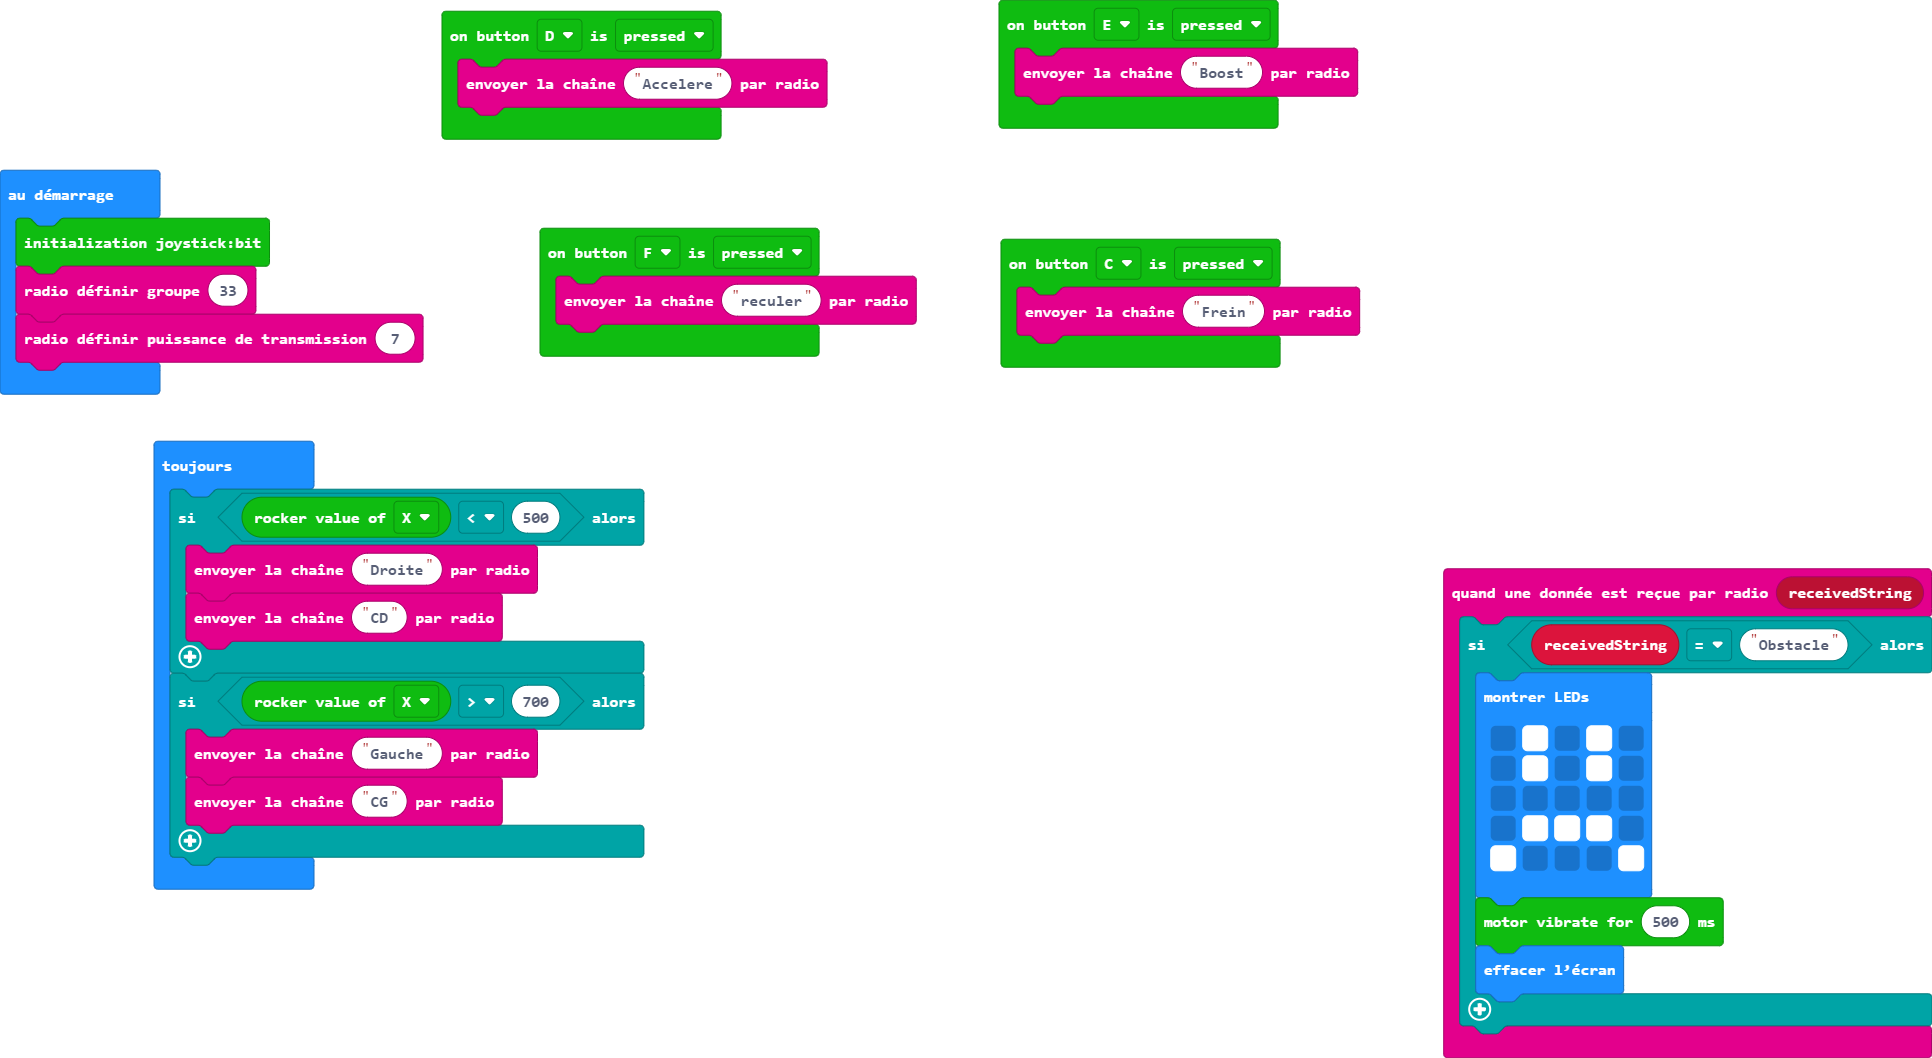
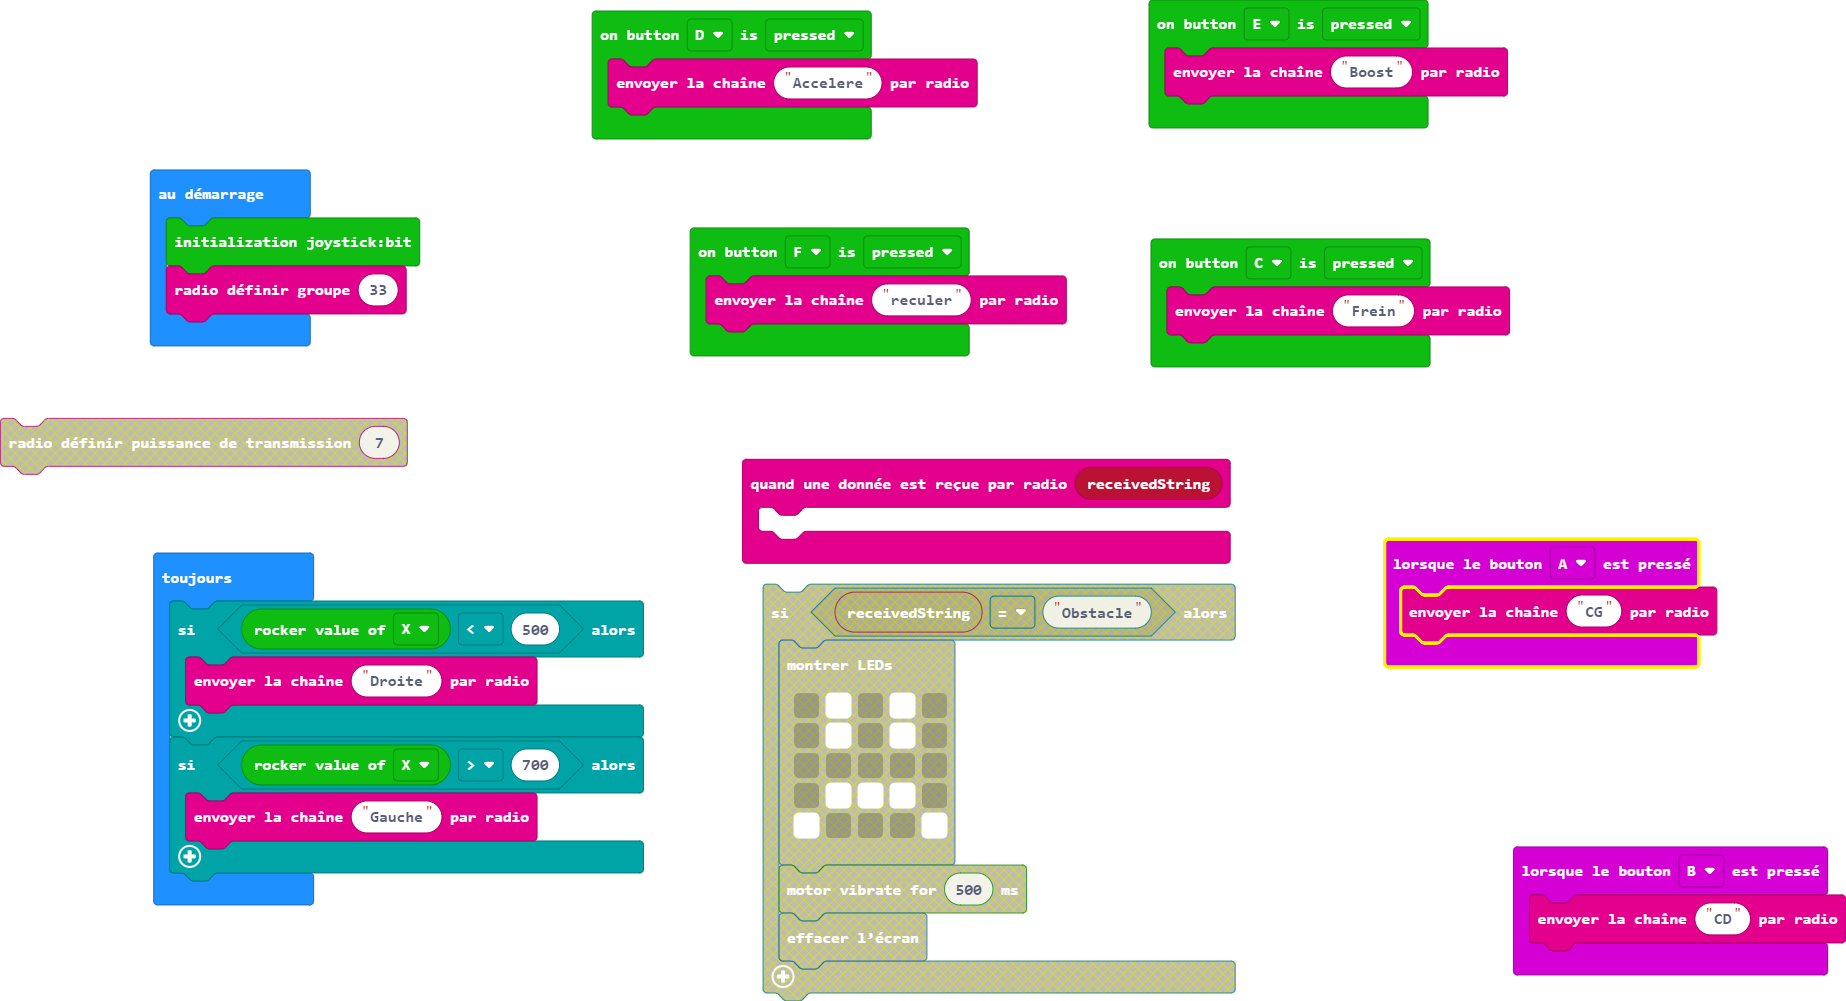
Mise à jour main.blocks, main.ts

diff --git a/main.ts b/main.ts
@@ -1,21 +1,17 @@
 joystickbit.onButtonEvent(joystickbit.JoystickBitPin.P14, joystickbit.ButtonType.down, function () {
     radio.sendString("Boost")
 })
+input.onButtonPressed(Button.A, function () {
+    radio.sendString("CG")
+})
 joystickbit.onButtonEvent(joystickbit.JoystickBitPin.P15, joystickbit.ButtonType.down, function () {
     radio.sendString("reculer")
 })
 radio.onReceivedString(function (receivedString) {
-    if (receivedString == "Obstacle") {
-        basic.showLeds(`
-            . # . # .
-            . # . # .
-            . . . . .
-            . # # # .
-            # . . . #
-            `)
-        joystickbit.Vibration_Motor(500)
-        basic.clearScreen()
-    }
+	
+})
+input.onButtonPressed(Button.B, function () {
+    radio.sendString("CD")
 })
 joystickbit.onButtonEvent(joystickbit.JoystickBitPin.P13, joystickbit.ButtonType.down, function () {
     radio.sendString("Accelere")
@@ -25,14 +21,11 @@ joystickbit.onButtonEvent(joystickbit.JoystickBitPin.P12, joystickbit.ButtonType
 })
 joystickbit.initJoystickBit()
 radio.setGroup(33)
-radio.setTransmitPower(7)
 basic.forever(function () {
     if (joystickbit.getRockerValue(joystickbit.rockerType.X) < 500) {
         radio.sendString("Droite")
-        radio.sendString("CD")
     }
     if (joystickbit.getRockerValue(joystickbit.rockerType.X) > 700) {
         radio.sendString("Gauche")
-        radio.sendString("CG")
     }
 })
